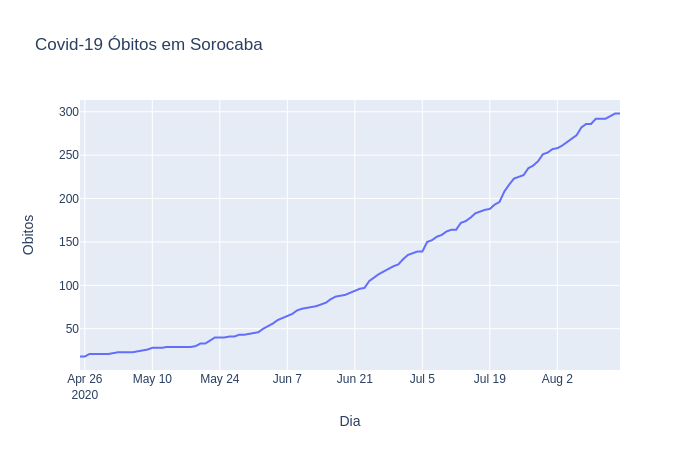
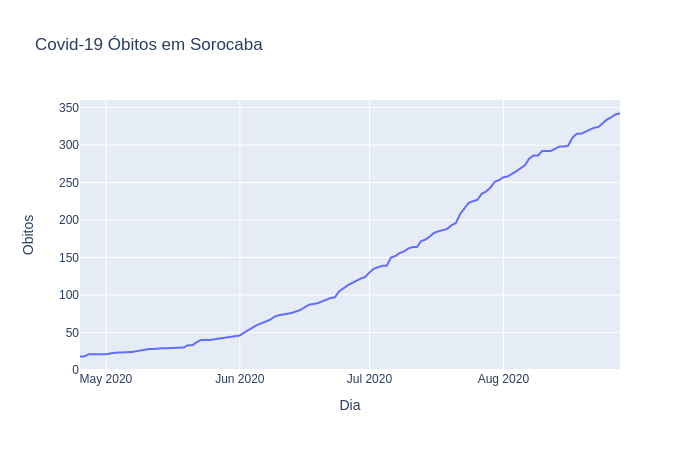
dados atualizados 28/08

diff --git a/README.md b/README.md
@@ -1,8 +1,8 @@
 ## Dados divulgados pela Prefeitura de Sorocaba sobre os casos de Covid-19
 Há uma planilha com os dados retirados das imagens divulgadas [AQUI](https://github.com/lucas-koiti/covid19-sorocaba/blob/master/dados/planilha_csv/dados.csv).
 
-## Gráfico de casos confirmados até 15/08/2020
+## Gráfico de casos confirmados até 28/08/2020
 <img src= "confirmados.png">
 
-## Gráfico de óbitos por covid-19 até 15/08/2020
+## Gráfico de óbitos por covid-19 até 28/08/2020
 <img src= "obitos.png">
